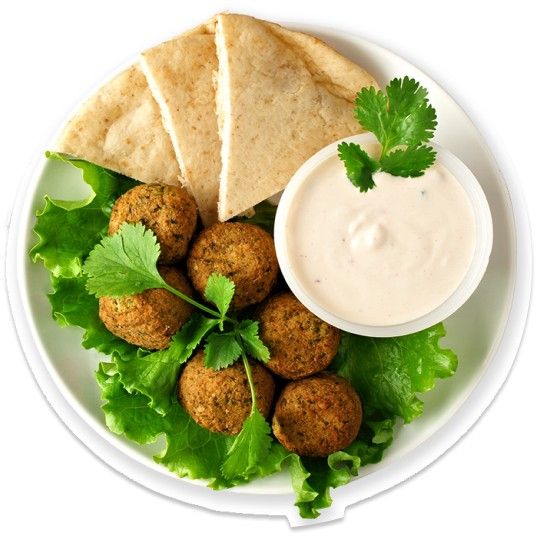
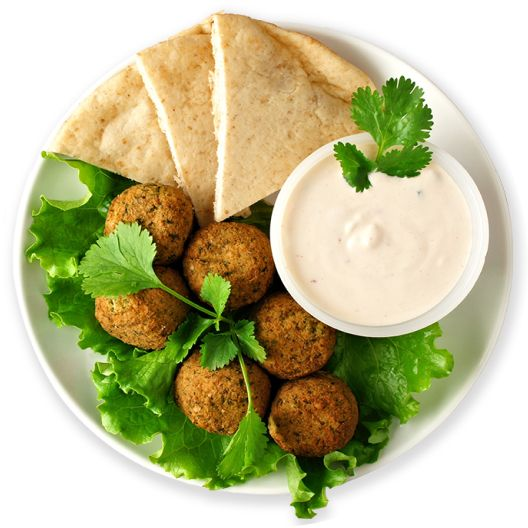
додав ретину

diff --git a/src/partials/hero.html b/src/partials/hero.html
@@ -22,13 +22,29 @@
                                     ./images/hero/dish-first@1xtablet.jpg. 292w,
                                     ./images/hero/dish-first@1xdesktop.jpg 528w,
                                     ./images/hero/dish-first@2xtablet.jpg 584w,
-                                    ./images/hero/dish-first@2xdesktop.jpg 1168w"
+                                    ./images/hero/dish-first@2xdesktop.jpg 1056w"
                                                                                         
                                         sizes="(min-width:1280px) 528px, (min-width:768px) 292px, 100vw "
                                            
                                     src="./images/hero/dish-first@1xdesktop.jpg" alt="dish"></div>
-                                <div class="swiper-slide"><img  src="./images/hero/dish-second@1xdesktop.jpg" alt="dish"></div>
-                                <div class="swiper-slide"><img  src="./images/hero/dish-third@1xdesktop.jpg" alt="dish"></div>
+                                <div class="swiper-slide"><img srcset="
+                                    ./images/hero/dish-second@1xtablet.jpg. 292w,
+                                    ./images/hero/dish-second@1xdesktop.jpg 528w,
+                                    ./images/hero/dish-second@2xtablet.jpg 584w,
+                                    ./images/hero/dish-second@2xdesktop.jpg 1056w"
+                                                                                        
+                                        sizes="(min-width:1280px) 528px, (min-width:768px) 292px, 100vw "
+                                           
+                                    src="./images/hero/dish-second@1xdesktop.jpg" alt="dish"></div>
+                                <div class="swiper-slide"><img  srcset="
+                                    ./images/hero/dish-third@1xtablet.jpg. 292w,
+                                    ./images/hero/dish-third@1xdesktop.jpg 528w,
+                                    ./images/hero/dish-third@2xtablet.jpg 584w,
+                                    ./images/hero/dish-third@2xdesktop.jpg 1056w"
+                                                                                        
+                                        sizes="(min-width:1280px) 528px, (min-width:768px) 292px, 100vw "
+                                           
+                                    src="./images/hero/dish-third@1xdesktop.jpg" alt="dish"></div>
                             </div>
                         </div>
                     </button>
